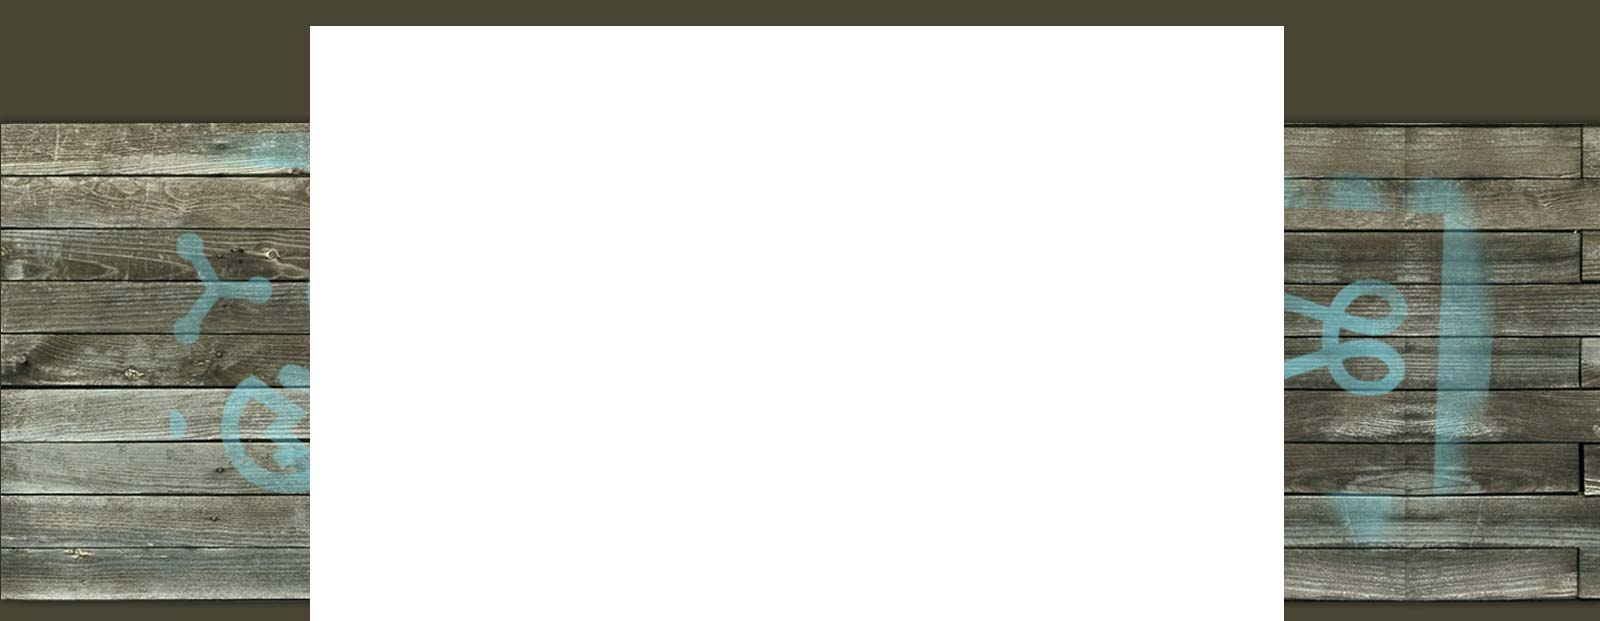
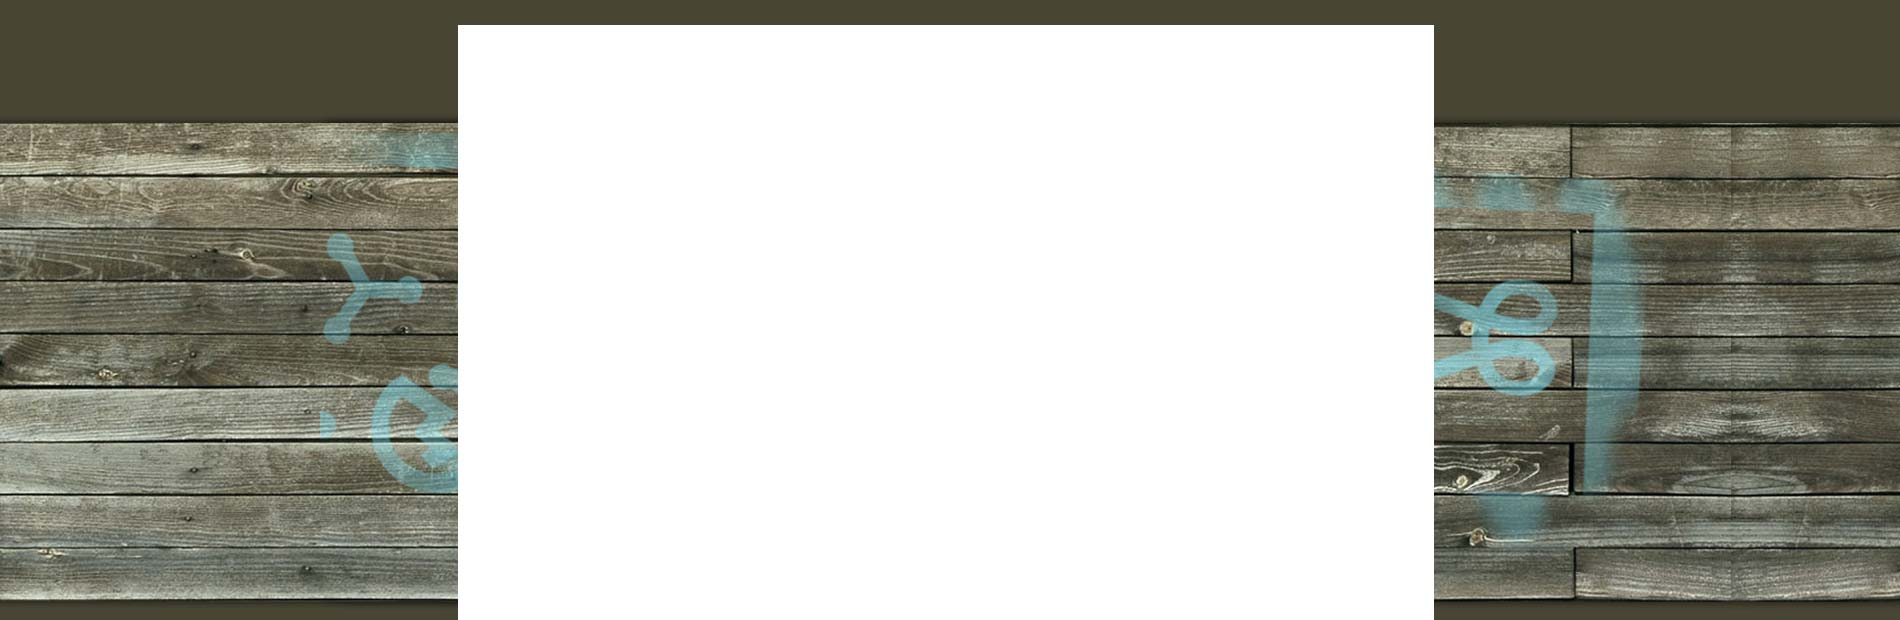
new themes
git-svn-id: svn+ssh://svn.wikia-code.com/svn/wikia/trunk@27721 e846bd91-c042-42a7-a218-4b65e2c1904d

Changed region(s): [[0.0, 0.0306, 0.25, 1.0], [0.75, 0.0306, 1.0, 1.0]]

diff --git a/extensions/wikia/ThemeDesigner/templates/ThemeDesigner_Picker.php b/extensions/wikia/ThemeDesigner/templates/ThemeDesigner_Picker.php
@@ -12,7 +12,43 @@
 		<h1><?= wfMsg('themedesigner-pick-an-image') ?></h1>
 		<ul class="swatches">
 			<li>
+				<img src="<?= $wgExtensionsPath ?>/wikia/ThemeDesigner/images/pattern_dots_swatch.jpg" data-image="<?= $wgCdnStylePath ?>/skins/oasis/images/themes/pattern_dots.png">
+			</li>
+			<li>
+				<img src="<?= $wgExtensionsPath ?>/wikia/ThemeDesigner/images/pattern_flower_swatch.jpg" data-image="<?= $wgCdnStylePath ?>/skins/oasis/images/themes/pattern_flower.png">
+			</li>
+			<li>
+				<img src="<?= $wgExtensionsPath ?>/wikia/ThemeDesigner/images/pattern_steel_swatch.jpg" data-image="<?= $wgCdnStylePath ?>/skins/oasis/images/themes/pattern_steel.png">
+			</li>
+			<li>
+				<img src="<?= $wgExtensionsPath ?>/wikia/ThemeDesigner/images/pattern_straightdots_swatch.jpg" data-image="<?= $wgCdnStylePath ?>/skins/oasis/images/themes/pattern_straightdots.png">
+			</li>
+			<li>
+				<img src="<?= $wgExtensionsPath ?>/wikia/ThemeDesigner/images/opulence_swatch.jpg" data-image="<?= $wgCdnStylePath ?>/skins/oasis/images/themes/opulence.png">
+			</li>
+			<li>
 				<img src="<?= $wgExtensionsPath ?>/wikia/ThemeDesigner/images/oasis_swatch.jpg" data-image="<?= $wgCdnStylePath ?>/skins/oasis/images/themes/oasis.png">
+			</li>
+			<li>
+				<img src="<?= $wgExtensionsPath ?>/wikia/ThemeDesigner/images/babygirl_swatch.jpg" data-image="<?= $wgCdnStylePath ?>/skins/oasis/images/themes/babygirl.jpg">
+			</li>
+			<li>
+				<img src="<?= $wgExtensionsPath ?>/wikia/ThemeDesigner/images/carbon_swatch.jpg" data-image="<?= $wgCdnStylePath ?>/skins/oasis/images/themes/carbon.png">
+			</li>
+			<li>
+				<img src="<?= $wgExtensionsPath ?>/wikia/ThemeDesigner/images/rockgarden_swatch.jpg" data-image="<?= $wgCdnStylePath ?>/skins/oasis/images/themes/rockgarden.jpg">
+			</li>
+			<li>
+				<img src="<?= $wgExtensionsPath ?>/wikia/ThemeDesigner/images/creamsicle_swatch.jpg" data-image="<?= $wgCdnStylePath ?>/skins/oasis/images/themes/creamsicle.jpg">
+			</li>
+			<li>
+				<img src="<?= $wgExtensionsPath ?>/wikia/ThemeDesigner/images/plated_swatch.jpg" data-image="<?= $wgCdnStylePath ?>/skins/oasis/images/themes/plated.jpg">
+			</li>
+			<li>
+				<img src="<?= $wgExtensionsPath ?>/wikia/ThemeDesigner/images/police_swatch.jpg" data-image="<?= $wgCdnStylePath ?>/skins/oasis/images/themes/police.jpg">
+			</li>
+			<li>
+				<img src="<?= $wgExtensionsPath ?>/wikia/ThemeDesigner/images/aliencrate_swatch.jpg" data-image="<?= $wgCdnStylePath ?>/skins/oasis/images/themes/aliencrate.jpg">
 			</li>
 			<li>
 				<img src="<?= $wgExtensionsPath ?>/wikia/ThemeDesigner/images/sapphire_swatch.jpg" data-image="<?= $wgCdnStylePath ?>/skins/oasis/images/themes/sapphire.png">
@@ -24,19 +60,10 @@
 				<img src="<?= $wgExtensionsPath ?>/wikia/ThemeDesigner/images/moonlight_swatch.jpg" data-image="<?= $wgCdnStylePath ?>/skins/oasis/images/themes/moonlight.jpg">
 			</li>
 			<li>
-				<img src="<?= $wgExtensionsPath ?>/wikia/ThemeDesigner/images/opulence_swatch.jpg" data-image="<?= $wgCdnStylePath ?>/skins/oasis/images/themes/opulence.png">
-			</li>
-			<li>
-				<img src="<?= $wgExtensionsPath ?>/wikia/ThemeDesigner/images/carbon_swatch.jpg" data-image="<?= $wgCdnStylePath ?>/skins/oasis/images/themes/carbon.png">
-			</li>
-			<li>
 				<img src="<?= $wgExtensionsPath ?>/wikia/ThemeDesigner/images/beach_swatch.jpg" data-image="<?= $wgCdnStylePath ?>/skins/oasis/images/themes/beach.png">
 			</li>
 			<li>
 				<img src="<?= $wgExtensionsPath ?>/wikia/ThemeDesigner/images/dragstrip_swatch.jpg" data-image="<?= $wgCdnStylePath ?>/skins/oasis/images/themes/dragstrip.jpg">
-			</li>
-			<li>
-				<img src="<?= $wgExtensionsPath ?>/wikia/ThemeDesigner/images/aliencrate_swatch.jpg" data-image="<?= $wgCdnStylePath ?>/skins/oasis/images/themes/aliencrate.jpg">
 			</li>
 			<li class="no-image">
 				<?= wfMsg('themedesigner-dont-use-a-background') ?>

diff --git a/extensions/wikia/Oasis/Oasis_setup.php b/extensions/wikia/Oasis/Oasis_setup.php
@@ -76,19 +76,9 @@ $wgOasisThemes = array(
 		"color-buttons" => "#6F027C",
 		"color-links" => "#6F027C",
 		"color-header" => "#2A1124",
-		"background-image" => "",
+		"background-image" => $wgCdnStylePath ."/skins/oasis/images/themes/babygirl.jpg",
 		"background-align" => "center",
 		"background-tiled" => "false"
-	),
-	'opulence' => array(
-		"color-body" => "#AD3479",
-		"color-page" => "#FFFFFF",
-		"color-buttons" => "#DE1C4E",
-		"color-links" => "#810484",
-		"color-header" => "#610038",
-		"background-image" => $wgCdnStylePath ."/skins/oasis/images/themes/opulence.png",
-		"background-align" => "center",
-		"background-tiled" => "true"
 	),
 	'carbon' => array(
 		"color-body" => "#1A1A1A",
@@ -106,27 +96,37 @@ $wgOasisThemes = array(
 		"color-buttons" => "#1F5D04",
 		"color-links" => "#1F5D04",
 		"color-header" => "#04180C",
-		"background-image" => "",
+		"background-image" => $wgCdnStylePath ."/skins/oasis/images/themes/rockgarden.jpg",
 		"background-align" => "center",
 		"background-tiled" => "false"
 	),
-	'bluesteel' => array(
-		"color-body" => "#DA3073",
+	'opulence' => array(
+		"color-body" => "#AD3479",
 		"color-page" => "#FFFFFF",
-		"color-buttons" => "#DA3073",
-		"color-links" => "#DA3073",
-		"color-header" => "#DA3073",
-		"background-image" => "",
+		"color-buttons" => "#DE1C4E",
+		"color-links" => "#810484",
+		"color-header" => "#610038",
+		"background-image" => $wgCdnStylePath ."/skins/oasis/images/themes/opulence.png",
+		"background-align" => "center",
+		"background-tiled" => "true"
+	),
+	'bluesteel' => array(
+		"color-body" => "#303641",
+		"color-page" => "#FFFFFF",
+		"color-buttons" => "#0A3073",
+		"color-links" => "#0A3073",
+		"color-header" => "#0A3073",
+		"background-image" => $wgCdnStylePath ."/skins/oasis/images/themes/bluesteel.jpg",
 		"background-align" => "center",
 		"background-tiled" => "false"
 	),
 	'creamsicle' => array(
-		"color-body" => "#A1774F",
+		"color-body" => "#F8E9AE",
 		"color-page" => "#FBE7B5",
 		"color-buttons" => "#FE7E03",
 		"color-links" => "#AF4200",
 		"color-header" => "#A1774F",
-		"background-image" => "",
+		"background-image" => $wgCdnStylePath ."/skins/oasis/images/themes/creamsicle.jpg",
 		"background-align" => "center",
 		"background-tiled" => "false"
 	),
@@ -136,7 +136,7 @@ $wgOasisThemes = array(
 		"color-buttons" => "#092F71",
 		"color-links" => "#FFD500",
 		"color-header" => "#000000",
-		"background-image" => "",
+		"background-image" => $wgCdnStylePath ."/skins/oasis/images/themes/plated.jpg",
 		"background-align" => "center",
 		"background-tiled" => "false"
 	),
@@ -146,7 +146,7 @@ $wgOasisThemes = array(
 		"color-buttons" => "#1A52AC",
 		"color-links" => "#D6AD0B",
 		"color-header" => "#181010",
-		"background-image" => "",
+		"background-image" => $wgCdnStylePath ."/skins/oasis/images/themes/police.jpg",
 		"background-align" => "center",
 		"background-tiled" => "false"
 	),
